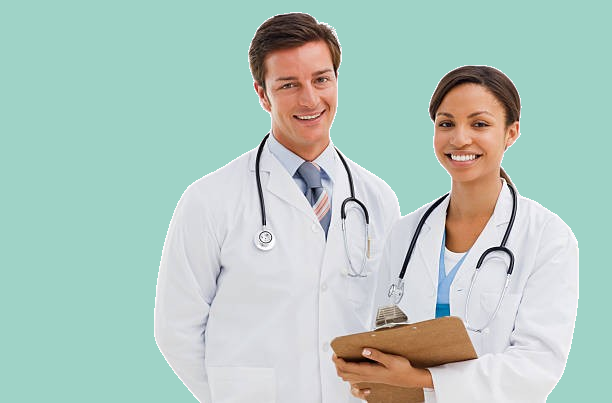
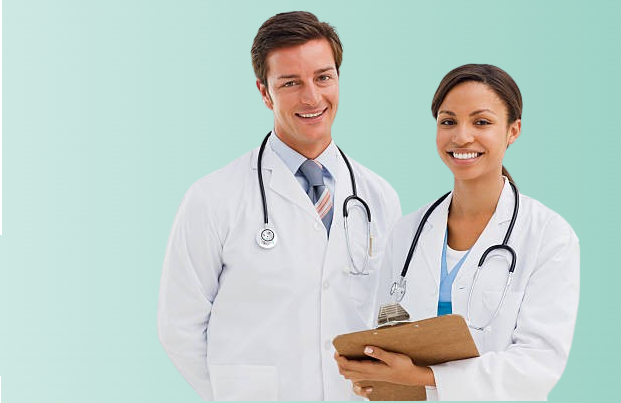
changes made again

diff --git a/app/MainScreen.tsx b/app/MainScreen.tsx
@@ -65,7 +65,7 @@ export default function MainScreen({
          {/* Hero and Search Bar */}
          <Dialog>
             {/* Hero Section */}
-            <section className="relative py-12 sm:py-16 lg:py-20 lg:pb-36 bg-[var(--primary-accent)] max-w-7xl mx-auto rounded-2xl">
+            <section className="relative py-12 sm:py-16 lg:py-20 lg:pb-36 max-w-7xl mx-auto rounded-2xl bg-gradient-to-l from-[#9FD3C7] to-white">
                <div className="px-4 mx-auto max-w-7xl sm:px-6 lg:px-8">
                   <div className="grid max-w-lg grid-cols-1 mx-auto lg:max-w-full lg:items-center lg:grid-cols-2 gap-y-4 lg:gap-x-8">
                      <div>
